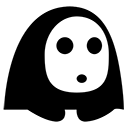
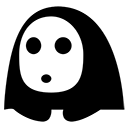
Added links to identified user

diff --git a/src/Entity/AvatarImage.php b/src/Entity/AvatarImage.php
@@ -58,8 +58,8 @@ class AvatarImage
 
         $name = $this->createName();
         $this->setUrl($name);
-        $width = 64;
-        $height = 64;
+        $width = 128;
+        $height = 128;
         $size = getimagesize($this->file);
         $output = imagecreatetruecolor($width, $height);
         $ratio = min($size[0]/$width, $size[1]/$height);
